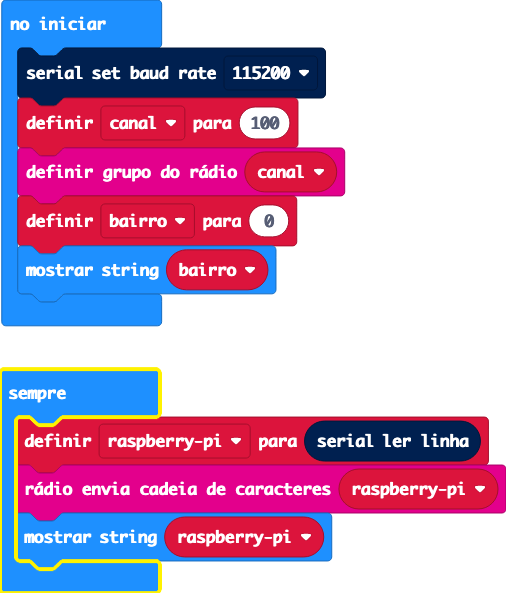
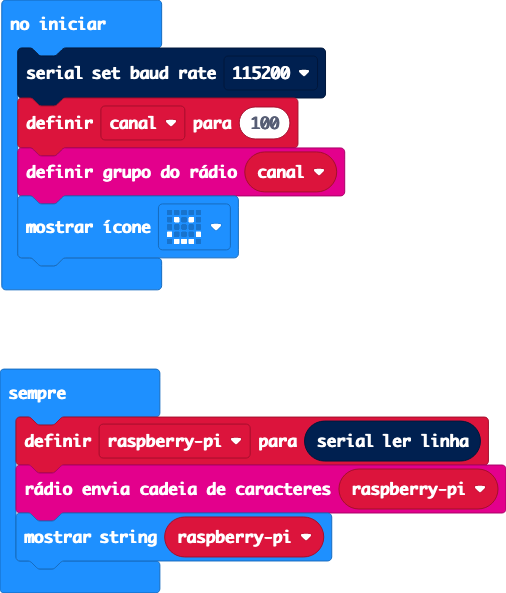
Remover botões locais, apenas entrada por serial

Changed region(s): [[0.0, 0.3035, 0.5929, 0.5767], [0.0, 0.6071, 0.3261, 1.0]]

diff --git a/main.ts b/main.ts
@@ -2,8 +2,7 @@ let raspberrypi = ""
 serial.setBaudRate(BaudRate.BaudRate115200)
 let canal = 100
 radio.setGroup(canal)
-let bairro = 0
-basic.showString("" + (bairro))
+basic.showIcon(IconNames.Happy)
 basic.forever(function () {
     raspberrypi = serial.readLine()
     radio.sendString(raspberrypi)
